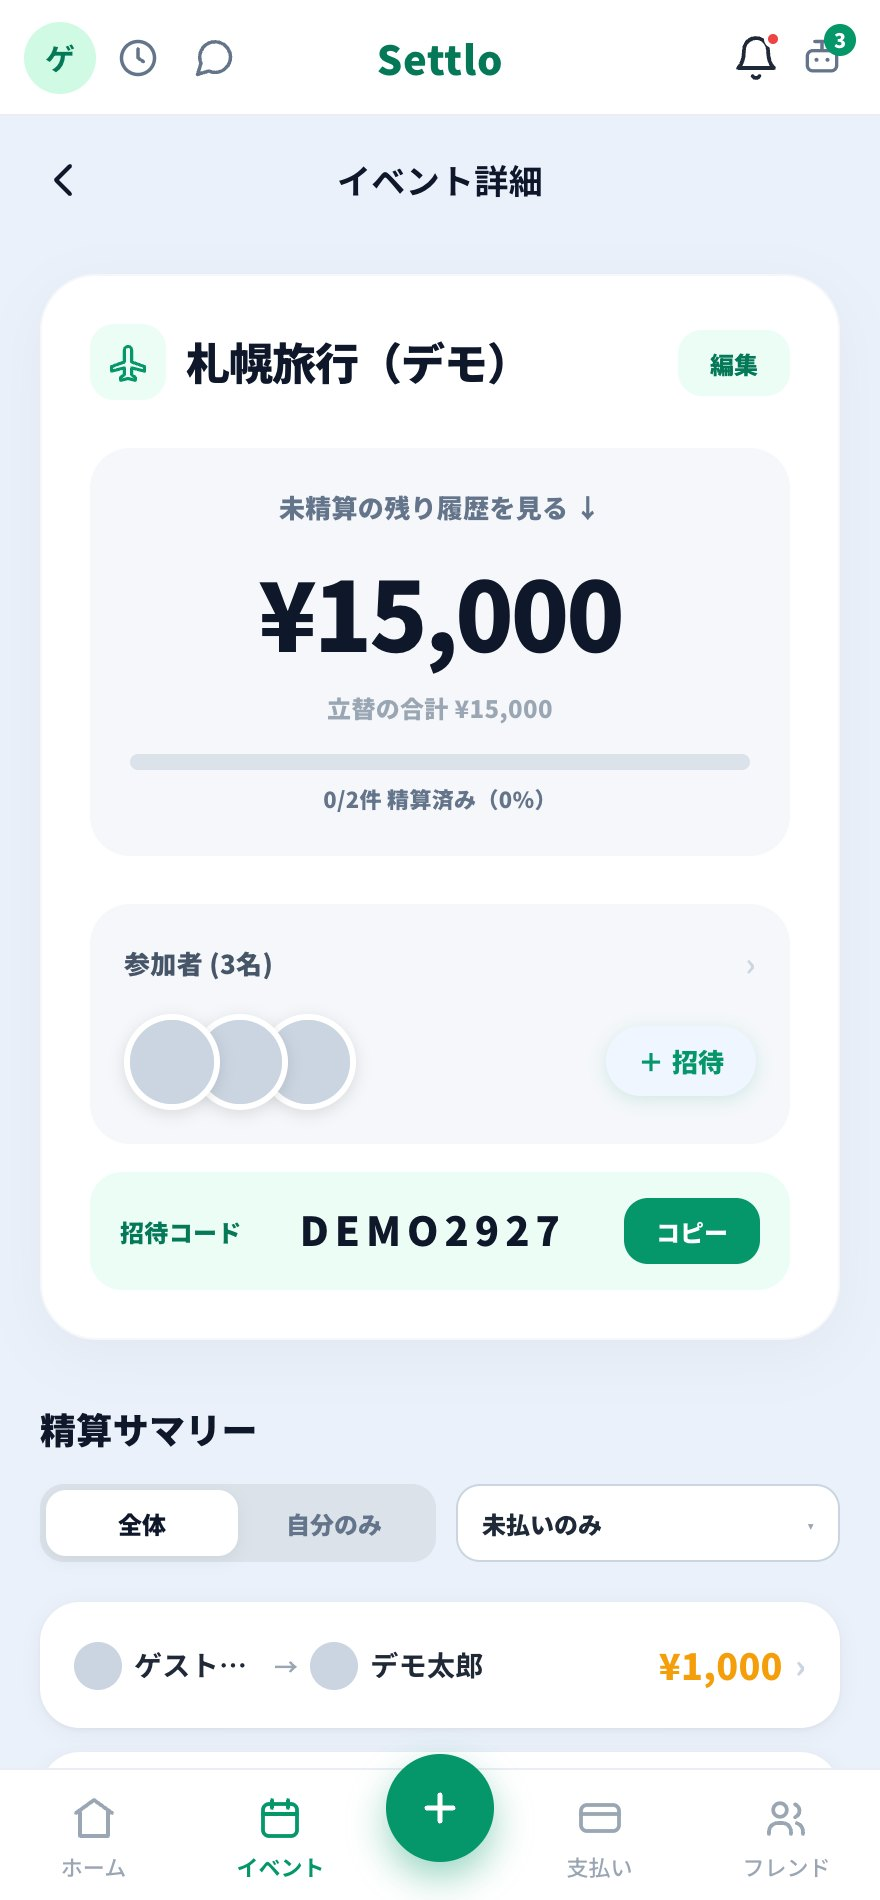
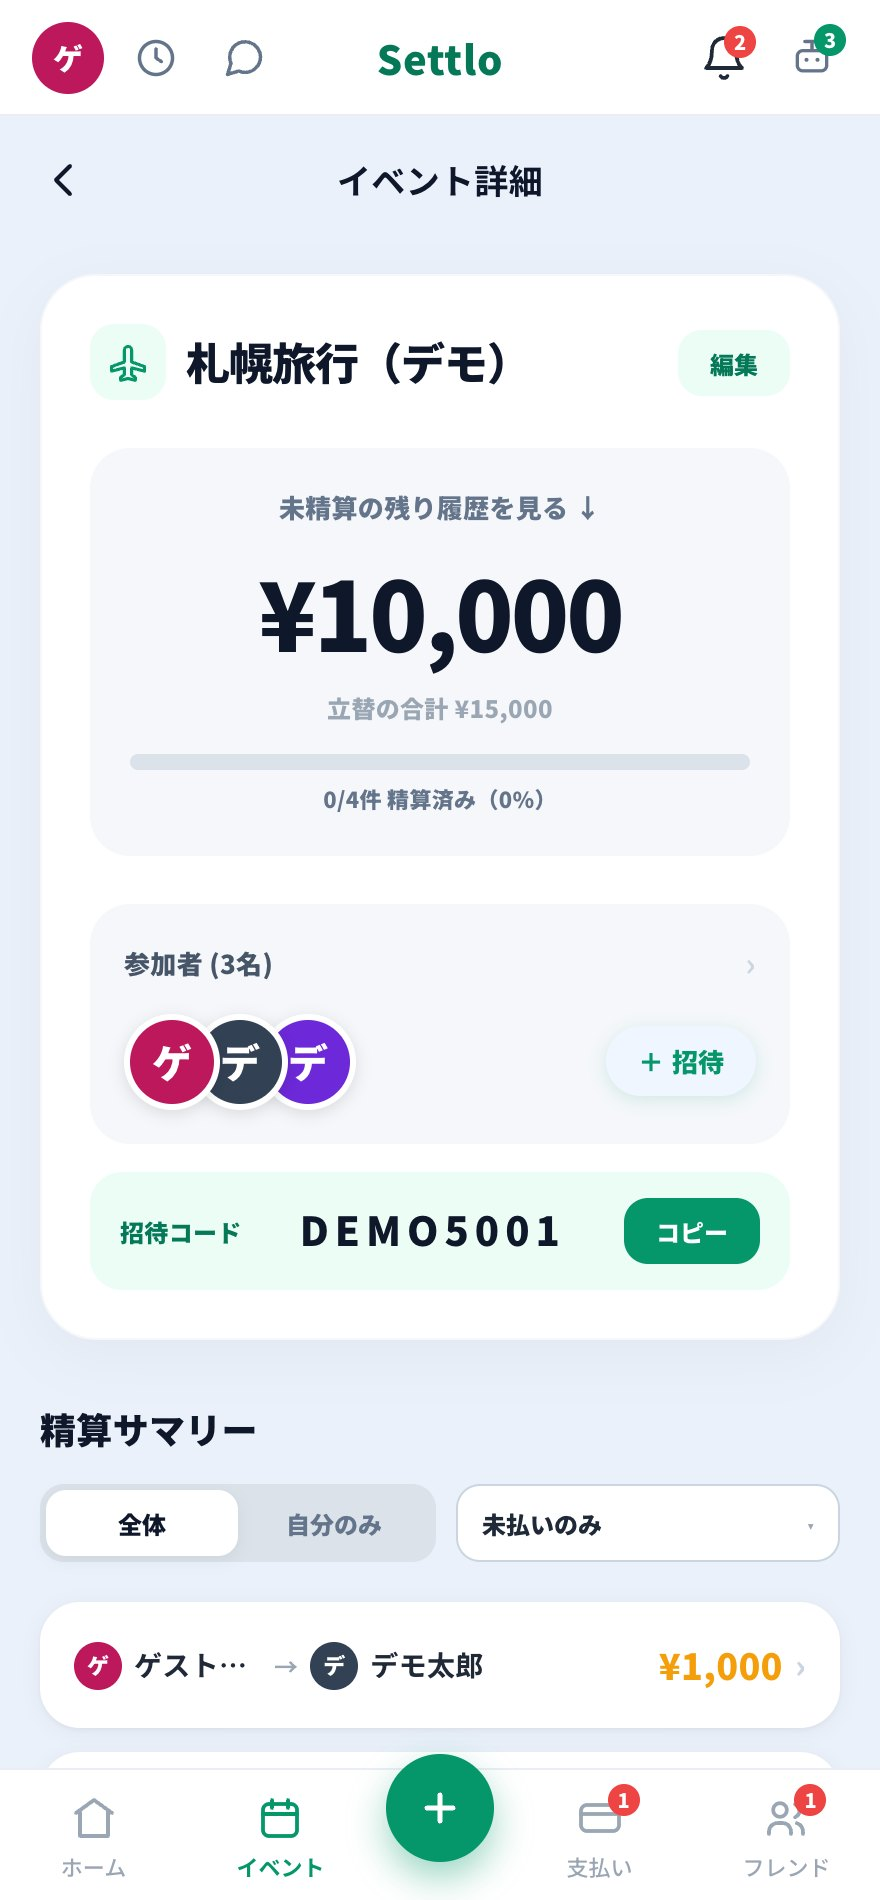
update: Settloの画面写真と説明を最新版に差し替え

diff --git a/src/data/works.ts b/src/data/works.ts
@@ -367,15 +367,15 @@ export const works: Work[] = [
     category: "web",
     summary: "レシートを撮るだけで、旅行や飲み会の割り勘から精算までを完結できるアプリ。サークル内ハッカソン「SysHack（シスハック）」での制作をきっかけに5人チームで開発を継続し、学生団体経由で企業賞も受賞。技育博2026にもエントリーしている。",
     goal: "旅行や飲み会での立て替えは、あとから“誰がいくら払うか”を計算するのが面倒で、精算がうやむやになりがち。その“お金のモヤモヤ”をゼロにするのが狙い。レシートを撮るだけで記録が終わり、誰でも迷わず割り勘から精算まで完了できる——そんな体験をめざした。",
-    approach: "5人チームでの開発で、自分はUI・フロントエンドを中心に、レシートのAI読み取りなどのバックエンドや発表・登壇も担当した。主な機能は、①レシートを撮ると Gemini（2.5 Flash）のOCRが店名・金額・品目を自動入力、②全員で均等・金額を指定・商品ごとに支払う人を選ぶ、の3方式の割り勘、③食事・カフェ・交通などをアイコンで分類、④“誰が誰にいくら払うか”を最小回数の送金で求める自動精算、⑤招待コードでのイベント・参加者管理、⑥フレンド申請と取引履歴、⑦承認・催促・拒否の通知（アプリ内＋プッシュ）、⑧「〇〇の支払いの件」単位のチャット相談、⑨承認待ちを一覧できるビュー、⑩イベントごとの精算進捗の可視化。直近では、“次にやること”を教える「お支払いアシスタント」、画面のボタンを1つずつ案内する使い方ガイド／ツアー、登録なしで試せるゲストデモ、ホーム画面に入れて使える PWA 対応まで加え、使い勝手を大きく改修した。技術は Vue 3（script setup）＋Vite、ルーティングは Vue Router、バックエンドは Firebase（Authentication／Firestore／Cloud Functions／Hosting／FCM）で、精算ロジックは composable に切り出し、APIキーはサーバーレス関数側に置いてフロントには出さない。スマホのスワイプUIとPCレスポンシブに両対応している。",
+    approach: "5人チームでの開発で、自分はUI・フロントエンドを中心に、レシートのAI読み取りなどのバックエンドや発表・登壇も担当した。ホームを開くと、受け取る額・支払う額・今月の収支がひと目でわかる。主な機能は、①レシートを撮ると Gemini（2.5 Flash）のOCRが店名・金額・消費税まで自動入力（手入力にも対応）、②全員で均等・金額を指定・商品ごとに支払う人を選ぶ、の3方式の割り勘、③食事・カフェ・交通などをアイコンで分類、④招待コードや「＋招待」でのイベント・参加者管理と、誰が誰にいくら払うかが残り件数つきで見える精算サマリー、⑤相手ごとに全イベントの貸し借りを相殺して、送金の回数を最小にまとめる「まとめて精算」、⑥PayPayリンクでの請求と「支払いを催促する」通知。現金でやり取りした時は「受け取った／支払った」を相手が承認して完了する二段階の精算、⑦承認待ちを自分側・相手側・履歴に分けて確認できる一覧、⑧「〇〇の支払いの件」単位で会話できるチャット、⑨フレンド申請・承認と、友達ごとの貸し借りのまとめ、⑩支払い・受け取り・精算済みで絞り込めるお支払い履歴。さらに、“次にやること”を金額つきで教える「お支払いアシスタント」、削除したイベントや取引を7日間だけ預かって戻せるゴミ箱、実際のデモ画面で1手ずつ説明するヘルプ（画面ごとの解説と画面遷移マップ、順に案内する使い方ツアー）、登録なしで試せるゲストデモ、ホーム画面に入れて使える PWA 対応まで用意した。技術は Vue 3（script setup）＋Vite、ルーティングは Vue Router、バックエンドは Firebase（Authentication／Firestore／Cloud Functions／Hosting／FCM）で、精算ロジックは composable に切り出し、APIキーはサーバーレス関数側に置いてフロントには出さない。スマホのスワイプUIとPCレスポンシブに両対応している。",
     tools: ["Vue 3 / Vite", "Firebase", "Gemini 2.5 Flash（OCR）", "PWA"],
     thumb: "/assets/works/settlo-event.jpg",
     contain: true,
     status: "ハッカソン企業賞・開発中",
     link: "https://settlo-app.web.app",
     slideGroups: [
-      { title: "使う・記録する（ゲストデモの実画面）", images: ["/assets/works/settlo-home.jpg", "/assets/works/settlo-event.jpg", "/assets/works/settlo-pay.jpg"] },
-      { title: "新しい体験（アシスタント・お知らせ・使い方ガイド）", images: ["/assets/works/settlo-assistant.jpg", "/assets/works/settlo-notif.jpg", "/assets/works/settlo-guide.jpg", "/assets/works/settlo-friend.jpg"] },
+      { title: "記録する・まとめて精算する（ゲストデモの実画面）", images: ["/assets/works/settlo-home.jpg", "/assets/works/settlo-event.jpg", "/assets/works/settlo-pay.jpg"] },
+      { title: "迷わせない仕組み（アシスタント・お知らせ・使い方ガイド・フレンド）", images: ["/assets/works/settlo-assistant.jpg", "/assets/works/settlo-notif.jpg", "/assets/works/settlo-guide.jpg", "/assets/works/settlo-friend.jpg"] },
     ],
 
   },
